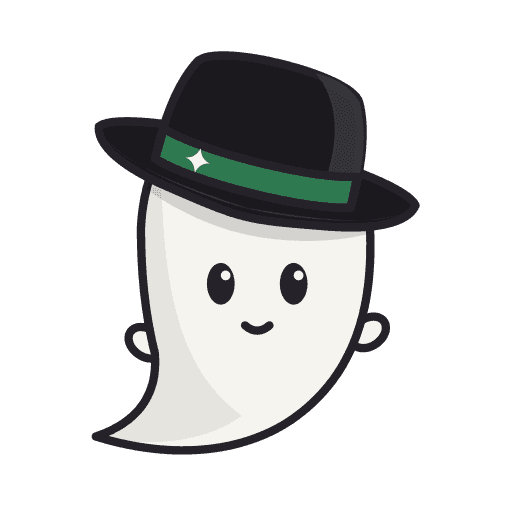
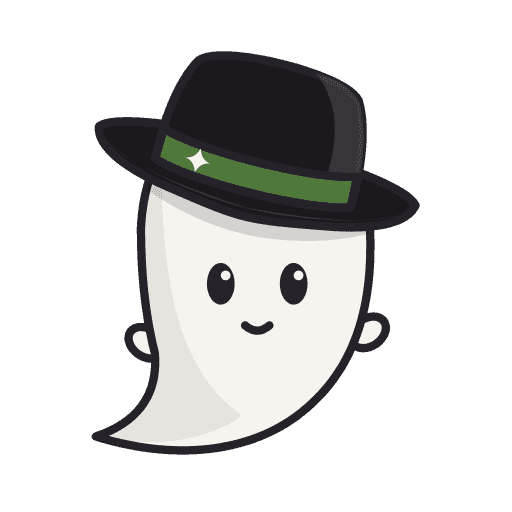
Palet washi, sumi, hijau teh, dan vermilion
Token warna diganti ke palet DESIGN.md: latar kertas washi, teks tinta
sumi, hijau teh tua dan tint hijau teh sebagai inti, vermilion sebagai
satu aksen yang hanya dipakai tombol Kirim (.button-send). Link, fokus,
tombol utama lain, dan bubble user pindah ke hijau. Kontras setiap
pasangan dihitung ulang; semua angka cocok dengan perhitungan pemilik.

Pita topi maskot jadi #4F7A3A (3.47:1 terang, 3.88:1 gelap terhadap
topi), ikon PWA dibuat ulang, dan theme_color manifest memakai hijau
tema terang. Nama token lama sementara dipetakan ke palet baru sampai
redesign menggantinya.

Changed region(s): [[0.3125, 0.25, 0.6875, 0.4062]]

diff --git a/frontend/src/styles/tokens.css b/frontend/src/styles/tokens.css
@@ -1,34 +1,41 @@
 /*
+ * Palette from DESIGN.md: washi paper and sumi ink as neutrals, tea green as
+ * the core, vermilion as the single accent (send button only).
  * vite.config.ts reads --color-brand and --color-bg from the first :root block
  * for the PWA manifest, so keep those two as plain hex values.
- * --ghost-eye is left unset in light so the mascot falls back to its outline.
- * Contrast targets: text 4.5:1 on its background, borders/icons 3:1.
  */
 :root {
   color-scheme: light;
 
-  --color-brand: #5b3fd1;
-  --color-bg: #f7f6fb;
-  --color-surface: #ffffff;
-  --color-surface-muted: #eeecf6;
-  --color-text: #1c1a29;
-  --color-text-muted: #55526a;
-  --color-border: #7f7a99;
-  --color-accent: #5b3fd1;
-  --color-accent-hover: #4a30b8;
+  --color-brand: #3f5a35;
+  --color-bg: #f3efe4;
+  --color-surface: #fbf9f3;
+  --color-ink: #22201c;
+  --color-muted: #5c584f;
+  --color-border: #8c8677;
+  --color-green: #3f5a35;
+  --color-tea: #dce3c6;
+  --color-accent: #b3402a;
   --color-on-accent: #ffffff;
-  --color-danger: #b42318;
-  --color-danger-surface: #fdecea;
-  --color-on-danger: #ffffff;
-  --color-focus: #5b3fd1;
-  --color-code-bg: #ffffff;
-  --color-code-head: #f7f6fb;
-  --color-inline-code-bg: #dedaee;
+  --color-on-green: #fbf9f3;
+
+  /* Legacy names, mapped onto the new palette until the redesign replaces them. */
+  --color-text: var(--color-ink);
+  --color-text-muted: var(--color-muted);
+  --color-surface-muted: var(--color-tea);
+  --color-accent-hover: #2f4428;
+  --color-danger: var(--color-ink);
+  --color-danger-surface: var(--color-surface);
+  --color-on-danger: var(--color-surface);
+  --color-focus: var(--color-green);
+  --color-code-bg: var(--color-surface);
+  --color-code-head: var(--color-bg);
+  --color-inline-code-bg: var(--color-tea);
 
   --ghost-body: #f6f4ef;
   --ghost-outline: #26222b;
   --ghost-hat: #1b191e;
-  --ghost-accent: #2e7a50;
+  --ghost-accent: #4f7a3a;
 
   --font-sans: system-ui, -apple-system, "Segoe UI", Roboto, "Noto Sans", sans-serif;
   --radius-s: 8px;
@@ -48,27 +55,22 @@
   :root:not([data-theme="light"]) {
     color-scheme: dark;
 
-    --color-bg: #15131f;
-    --color-surface: #1e1b2c;
-    --color-surface-muted: #2a2640;
-    --color-text: #ecebf5;
-    --color-text-muted: #aca8c4;
-    --color-border: #807a9e;
-    --color-accent: #a996ff;
-    --color-accent-hover: #c0b3ff;
-    --color-on-accent: #15131f;
-    --color-danger: #ff8a80;
-    --color-danger-surface: #3a1d22;
-    --color-on-danger: #15131f;
-    --color-focus: #c0b3ff;
-    --color-code-bg: #15131f;
-    --color-code-head: #1e1b2c;
-    --color-inline-code-bg: #3d3858;
+    --color-bg: #171614;
+    --color-surface: #22201c;
+    --color-ink: #ede8dc;
+    --color-muted: #b4ad9e;
+    --color-border: #76705f;
+    --color-green: #a3b88e;
+    --color-tea: #2d3a28;
+    --color-accent: #e07a5f;
+    --color-on-accent: #171614;
+    --color-on-green: #171614;
+    --color-accent-hover: #b9cba6;
 
     --ghost-body: #3a3444;
     --ghost-outline: #ede9f3;
     --ghost-hat: #0d0c10;
-    --ghost-accent: #2e7a50;
+    --ghost-accent: #4f7a3a;
     --ghost-eye: #ede9f3;
   }
 }
@@ -76,26 +78,21 @@
 :root[data-theme="dark"] {
   color-scheme: dark;
 
-  --color-bg: #15131f;
-  --color-surface: #1e1b2c;
-  --color-surface-muted: #2a2640;
-  --color-text: #ecebf5;
-  --color-text-muted: #aca8c4;
-  --color-border: #807a9e;
-  --color-accent: #a996ff;
-  --color-accent-hover: #c0b3ff;
-  --color-on-accent: #15131f;
-  --color-danger: #ff8a80;
-  --color-danger-surface: #3a1d22;
-  --color-on-danger: #15131f;
-  --color-focus: #c0b3ff;
-  --color-code-bg: #15131f;
-  --color-code-head: #1e1b2c;
-  --color-inline-code-bg: #3d3858;
+  --color-bg: #171614;
+  --color-surface: #22201c;
+  --color-ink: #ede8dc;
+  --color-muted: #b4ad9e;
+  --color-border: #76705f;
+  --color-green: #a3b88e;
+  --color-tea: #2d3a28;
+  --color-accent: #e07a5f;
+  --color-on-accent: #171614;
+  --color-on-green: #171614;
+  --color-accent-hover: #b9cba6;
 
   --ghost-body: #3a3444;
   --ghost-outline: #ede9f3;
   --ghost-hat: #0d0c10;
-  --ghost-accent: #2e7a50;
+  --ghost-accent: #4f7a3a;
   --ghost-eye: #ede9f3;
 }

diff --git a/frontend/src/components/ChatComposer.vue b/frontend/src/components/ChatComposer.vue
@@ -239,7 +239,7 @@ defineExpose({ addFiles, focus: () => inputEl.value?.focus() })
           </svg>
           Hentikan
         </button>
-        <button v-else type="submit" class="button button-primary" :disabled="!canSend">
+        <button v-else type="submit" class="button button-send" :disabled="!canSend">
           <svg viewBox="0 0 24 24" width="18" height="18" aria-hidden="true">
             <path d="M4 12 20 4l-5 16-3-7-8-1Z" fill="none" stroke="currentColor" stroke-width="2" stroke-linejoin="round" />
           </svg>
@@ -318,7 +318,7 @@ defineExpose({ addFiles, focus: () => inputEl.value?.focus() })
   bottom: 4px;
   width: calc(100% - 8px);
   height: 6px;
-  accent-color: var(--color-accent);
+  accent-color: var(--color-green);
 }
 
 /* 44px hit area around a small visual badge, overlapping the corner. */

diff --git a/frontend/src/views/ChatView.vue b/frontend/src/views/ChatView.vue
@@ -387,8 +387,8 @@ function onDrop(e: DragEvent) {
 }
 
 .from-user .bubble {
-  background: var(--color-accent);
-  color: var(--color-on-accent);
+  background: var(--color-tea);
+  color: var(--color-ink);
   border-bottom-right-radius: var(--radius-s);
 }
 
@@ -477,7 +477,7 @@ function onDrop(e: DragEvent) {
   inset: var(--space-2);
   display: grid;
   place-items: center;
-  border: 3px dashed var(--color-accent);
+  border: 3px dashed var(--color-green);
   border-radius: var(--radius-l);
   background: color-mix(in srgb, var(--color-bg) 88%, transparent);
   pointer-events: none;

diff --git a/frontend/index.html b/frontend/index.html
@@ -4,7 +4,7 @@
     <meta charset="UTF-8" />
     <meta name="viewport" content="width=device-width, initial-scale=1.0, viewport-fit=cover" />
     <meta name="description" content="Boo Dou, asisten AI berbasis web" />
-    <meta name="theme-color" content="#f7f6fb" />
+    <meta name="theme-color" content="#f3efe4" />
     <link rel="icon" href="/favicon.ico" sizes="48x48" />
     <link rel="icon" type="image/svg+xml" href="/mascot.svg" />
     <link rel="apple-touch-icon" href="/apple-touch-icon-180x180.png" />

diff --git a/frontend/src/styles/controls.css b/frontend/src/styles/controls.css
@@ -13,9 +13,21 @@
 }
 
 .button-primary {
+  border: 1px solid var(--color-green);
+  background: var(--color-green);
+  color: var(--color-on-green);
+}
+
+/* The one place the vermilion accent appears: the main action. */
+.button-send {
   border: 1px solid var(--color-accent);
   background: var(--color-accent);
   color: var(--color-on-accent);
+}
+
+.button-send:disabled {
+  cursor: not-allowed;
+  opacity: 0.55;
 }
 
 .button-primary:hover:not(:disabled) {

diff --git a/frontend/pwa-assets.config.ts b/frontend/pwa-assets.config.ts
@@ -2,7 +2,7 @@ import { defineConfig, minimal2023Preset } from '@vite-pwa/assets-generator/conf
 
 // Maskable and Apple icons are shown on an opaque tile, so give them the app
 // background instead of black; transparent icons keep the ghost's own shape.
-const tile = { background: '#f7f6fb', fit: 'contain' as const }
+const tile = { background: '#f3efe4', fit: 'contain' as const }
 
 export default defineConfig({
   headLinkOptions: { preset: '2023' },

diff --git a/frontend/src/components/MarkdownContent.vue b/frontend/src/components/MarkdownContent.vue
@@ -134,12 +134,12 @@ onBeforeUnmount(() => cancelAnimationFrame(frame))
 
 .markdown :deep(blockquote) {
   padding-left: var(--space-3);
-  border-left: 3px solid var(--color-accent);
+  border-left: 3px solid var(--color-green);
   color: var(--color-text-muted);
 }
 
 .markdown :deep(a) {
-  color: var(--color-accent);
+  color: var(--color-green);
   text-decoration: underline;
   text-underline-offset: 2px;
 }

diff --git a/frontend/src/components/GhostMascot.vue b/frontend/src/components/GhostMascot.vue
@@ -115,7 +115,7 @@ defineExpose({ replay })
   --_body: var(--ghost-body, #F6F4EF);
   --_line: var(--ghost-outline, #26222B);
   --_hat: var(--ghost-hat, #1B191E);
-  --_accent: var(--ghost-accent, #2E7A50);
+  --_accent: var(--ghost-accent, #4F7A3A);
   --_eye: var(--ghost-eye, var(--_line));
   overflow: visible;
   flex-shrink: 0;
